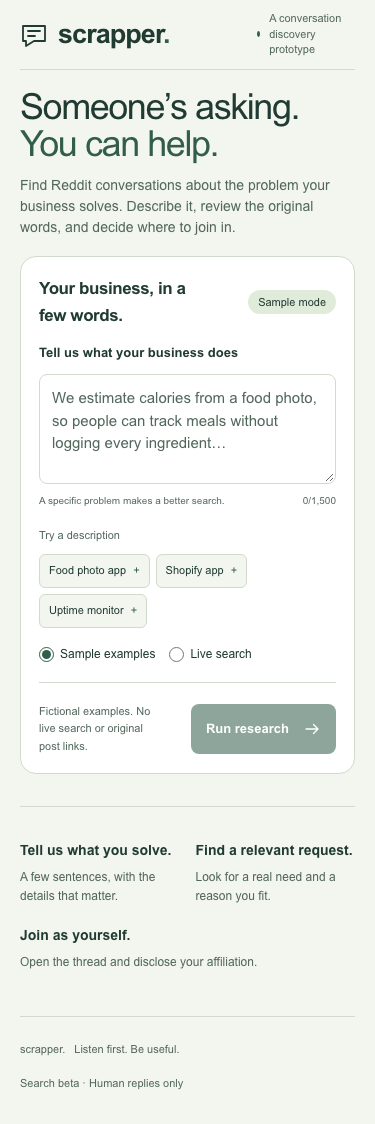
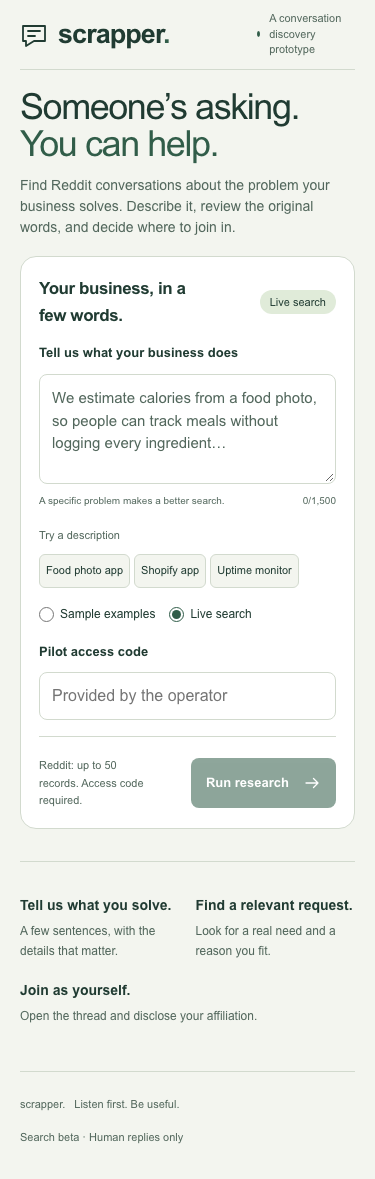
fix: accept ordinary problem discussions and default to live research

diff --git a/lib/discovery.ts b/lib/discovery.ts
@@ -103,10 +103,10 @@ export function interpret(description: string): Business {
           },
           {
             phrase:
-              '("tracking meals" OR "food logging") AND (difficult OR struggling OR recommend OR app)',
+              '(calorie OR calories OR food OR meals) AND (tracking OR logging OR counting) AND (hard OR difficult OR struggling OR tedious OR "how do" OR "how can")',
             signal: "problem",
             rationale:
-              "Meal-tracking problems and app discussions; complaints are not buying certainty.",
+              "Informal tracking questions and friction; no app request or buying language is required.",
           },
         ]
       : [
@@ -313,7 +313,7 @@ export function normalize(
   return output;
 }
 const request =
-  /\b(?:is there|are there|anyone (?:know|recommend|using)|can (?:anyone|someone)|looking for|recommend(?:ation|ations)?|suggest(?:ion|ions)?|alternative(?:s)?|need (?:an?|some|help)|how (?:do|can) I|what (?:app|tool)|wish there|tired of|takes too long|struggling with|hard to|difficult to|trouble (?:with|tracking)|hate (?:tracking|logging)|forget to (?:log|track))\b/i;
+  /\b(?:is there|are there|anyone (?:know|recommend|using)|can (?:anyone|someone)|looking for|recommend(?:ation|ations)?|suggest(?:ion|ions)?|alternative(?:s)?|need (?:an?|some|help)|how (?:do|can|should) (?:i|you(?: guys)?|we|people)|what (?:app|tool)|wish there|tired of|takes too long|struggling with|hard to|difficult to|trouble (?:with|tracking)|hate (?:tracking|logging)|forget to (?:log|track))\b/i;
 export function rank(
   items: SourceItem[],
   business: Business,
@@ -332,10 +332,29 @@ export function rank(
         content,
       ) &&
       /\b(?:photo|picture|pics|meal|food|ate|eating)\b/i.test(content);
+    const trackingProblem =
+      /\b(?:struggling|hard|difficult|trouble|hate|tired|too long|forget)\b[^.!?]{0,80}\b(?:track\w*|log\w*|count\w*|estimat\w*)\b/i.test(
+        content,
+      ) ||
+      /\b(?:track\w*|log\w*|count\w*)\b[^.!?]{0,80}\b(?:hard|difficult|struggling|too long|tedious|exhausting)\b/i.test(
+        content,
+      );
+    const trackingQuestion =
+      /\bhow (?:do|can|should) (?:i|you(?: guys)?|we|people)\b[^.!?]{0,100}\b(?:track\w*|log\w*|count\w*|estimat\w*)\b/i.test(
+        content,
+      );
     const evidence =
       content
         .split(/(?<=[.!?])\s+/)
-        .find((sentence) => request.test(sentence)) ||
+        .find(
+          (sentence) =>
+            request.test(sentence) ||
+            (trackingProblem &&
+              /\b(?:track\w*|log\w*|count\w*|estimat\w*)\b/i.test(sentence) &&
+              /hard|difficult|struggling|too long|tedious|exhausting/i.test(
+                sentence,
+              )),
+        ) ||
       (photoEstimationProblem
         ? (item.title || item.text).slice(0, 700)
         : undefined);
@@ -374,13 +393,6 @@ export function rank(
       /\balternatives?\b[^.!?]{0,50}\b(?:calorie (?:tracking|counting)|food (?:tracking|logging|journaling)|meal tracking)\b/i.test(
         content,
       );
-    const trackingProblem =
-      /\b(?:struggling|hard|difficult|trouble|hate|tired|too long|forget)\b[^.!?]{0,80}\b(?:track\w*|log\w*|count\w*|estimat\w*)\b/i.test(
-        content,
-      ) ||
-      /\b(?:track\w*|log\w*|count\w*)\b[^.!?]{0,80}\b(?:hard|difficult|struggling|too long|tedious|exhausting)\b/i.test(
-        content,
-      );
     const coachingRequest =
       /\b(?:looking for|recommend\w*|need)\b[^.!?]{0,80}\b(?:nutrition coach|personal trainer|dietitian)\b/i.test(
         content,
@@ -392,7 +404,8 @@ export function rank(
           (photoEstimationProblem ||
             toolRequest ||
             categoryAlternative ||
-            trackingProblem)
+            trackingProblem ||
+            trackingQuestion)
         : business.category === "Shopify & email marketing"
           ? /\bshopify\b/i.test(content) &&
             /\b(?:discount|codes?|email|cart)\b/i.test(content)
@@ -439,10 +452,11 @@ export function rank(
     results.push({
       ...item,
       evidence: evidence.trim().slice(0, 700),
-      reason: `This discussion mentions ${[...terms, ...features].slice(0, 3).join(", ")}—details that overlap with your description. ${item.synthetic ? "This fictional request illustrates the matching rule." : "Review the original context to confirm the fit."}`,
+      reason: `This discussion mentions ${[...terms, ...features].slice(0, 3).join(", ")}—details that overlap with your description. ${/calorie/i.test(business.summary) && /estimat/i.test(business.summary) && business.featureTerms.includes("photo") ? "Your stated photo-based calorie estimation could help with food estimation or logging. " : ""}${item.synthetic ? "This fictional request illustrates the matching rule." : "Review the original context to confirm the fit."}`,
       need:
-        photoEstimationProblem &&
-        !/\b(?:app|tool|software|tracker)\b/i.test(content)
+        (photoEstimationProblem || trackingProblem || trackingQuestion) &&
+        !toolRequest &&
+        !categoryAlternative
           ? "Problem context"
           : /alternative|instead of|switch from|moving on from/i.test(content)
             ? "Alternative request"

diff --git a/tests/browser/flows.spec.ts b/tests/browser/flows.spec.ts
@@ -17,6 +17,7 @@ test("sample input → progress → results, save, feedback, persistence and sou
   const errors: string[] = [];
   page.on("pageerror", (error) => errors.push(error.message));
   await page.goto("/");
+  await page.getByLabel("Sample examples", { exact: true }).check();
   await page.getByRole("button", { name: "Food photo app" }).click();
   await expect(
     page.getByRole("button", { name: "Run research" }),
@@ -74,6 +75,7 @@ test("empty fixtures and disabled live configuration remain truthful", async ({
   page,
 }) => {
   await page.goto("/");
+  await page.getByLabel("Sample examples", { exact: true }).check();
   await page
     .getByLabel("Tell us what your business does")
     .fill(
@@ -110,6 +112,7 @@ test("mobile keyboard flow and reduced motion have no horizontal overflow", asyn
   await expect(
     page.getByLabel("Tell us what your business does"),
   ).toBeFocused();
+  await page.getByLabel("Sample examples", { exact: true }).check();
   await page.getByRole("button", { name: "Uptime monitor" }).click();
   await page.getByRole("button", { name: "Run research" }).click();
   await expect(

diff --git a/tests/qualification.test.ts b/tests/qualification.test.ts
@@ -111,6 +111,19 @@ test("general diet distress and coaching requests do not become software matches
     "Problem context",
   );
 });
+test("ordinary tracking questions and informal friction qualify without app or buying language", () => {
+  for (const text of [
+    "How do you guys track your calories? This is very hard.",
+    "How can I log my meals without spending ages on it?",
+    "Tracking calories is so tedious. I struggle to keep it up.",
+  ]) {
+    const match = rank([post(text)], business)[0];
+    assert.ok(match, text);
+    assert.equal(match.need, "Problem context", text);
+    assert.ok(match.text.includes(match.evidence), text);
+    assert.match(match.reason, /Your stated photo-based calorie estimation/);
+  }
+});
 test("query plans pair category phrases with separate signals, preserve rationale and invent no competitor", () => {
   assert.equal(business.queryPlans!.length, 3);
   assert.ok(business.queries[0].includes('"calorie tracking"'));

diff --git a/app/page.tsx b/app/page.tsx
@@ -206,7 +206,7 @@ export default function Home() {
   const [description, setDescription] = useState("");
   const [accessCode, setAccessCode] = useState("");
   const progressSection = useRef<HTMLElement>(null);
-  const [mode, setMode] = useState<Mode>("sample");
+  const [mode, setMode] = useState<Mode>("live");
   const [scan, setScan] = useState<PublicScan | null>(null);
   const [error, setError] = useState("");
   const [starting, setStarting] = useState(false);

diff --git a/app/globals.css b/app/globals.css
@@ -1102,3 +1102,18 @@ footer {
 .locked-preview span:last-child {
   width: 55%;
 }
+
+@media (max-width: 400px) {
+  .examples > div {
+    gap: 4px;
+  }
+  .examples button {
+    padding-inline: 6px;
+  }
+}
+
+@media (max-width: 400px) {
+  .examples button span {
+    display: none;
+  }
+}

diff --git a/docs/validation.md b/docs/validation.md
@@ -67,7 +67,7 @@ The historical runs above tested the earlier pipeline. The final pipeline uses f
 
 A single optional Gemini call assesses up to five candidates using original context, exact quotation validation and accept/reject/uncertain decisions. Missing optional features are not a rejection; explicit incompatible constraints and promotions are. Sample mode makes no model calls. Failure preserves keyword matches with a disclosure. Original text/URLs/dates remain unchanged. Fit scores are not buyer probabilities. X has been removed from the public launch.
 
-36 offline tests pass, including unrelated-domain and explicit-constraint exclusions, category requests without every feature, separate problem/request labels, exact model evidence, failure fallback, once-only review persistence, ownership, idempotency, shared caps, and deferred X safeguards. Type checking, lint and production build pass. Final hosted proof and actual reported source charges are appended after verification.
+37 offline tests pass, including unrelated-domain and explicit-constraint exclusions, category requests without every feature, separate problem/request labels, exact model evidence, failure fallback, once-only review persistence, ownership, idempotency, shared caps, and deferred X safeguards. Type checking, lint and production build pass. Final hosted proof and actual reported source charges are appended after verification.
 
 ## Hosted useful-result verification, October 11, 2026
 
@@ -85,4 +85,12 @@ The actor encountered repeated Reddit HTTP 429 responses, succeeded in about 131
 
 The final preview returns up to three qualified results plus their actual total/hidden count. Additional titles, text, IDs and original links remain server-side. Decorative locked previews represent only actual additional matches; there is no checkout or unlock action. Pricing, subscriptions and entitlement access remain future work.
 
-The final precision pass was tested against the already-returned real dataset without another paid call. General diet distress, meal ideas and coaching requests no longer qualify as software needs; category replacement requests and direct food-photo estimation questions remain. Final offline suite: 36 passing tests.
+The final precision pass was tested against the already-returned real dataset without another paid call. General diet distress, meal ideas and coaching requests no longer qualify as software needs; category replacement requests and direct food-photo estimation questions remain. Final offline suite: 37 passing tests.
+
+## Final release checks
+
+A second hosted photo-calorie scan on the updated classification/preview build returned ten normalized real posts, retained **two**, and finished **partial** after source work hit its limits. Both were assessed by Gemini; their original source text, URLs and dates remained visible. One asks for a free calorie/nutrient/weight-logging app (October 8); price and manual-entry requirements are extra context, not capabilities promised by the photo example. The other is the September 26 photo-AI/app discussion already listed. No nonexistent third result or locked preview was shown. This check reported **$0.080**, so additional source verification cost **$0.160**, below the latest **$0.25** cap; total reported historical/release source charges are **$0.272**. No further paid validation is planned.
+
+The user's final clarification treats ordinary tracking questions and friction as opportunities even without an app recommendation request. “How do you guys track your calories? This is very hard” and “Tracking calories is so tedious” pass with original evidence and the **Problem context** label in the focused acceptance test. The problem query now includes this ordinary wording. This last recall change was checked offline, not with another paid provider/model call. Request language adds a label; it is not a universal acceptance requirement or a buyer-probability signal.
+
+The release has **37 passing offline tests**, **six passing hosted browser checks**, strict type checking, lint and production build, plus earlier Neon persistence/concurrency validation. The final review found no material UI issues. The different-business uptime examples and recorded unrelated source dataset remain offline/negative checks; focused live uptime coverage has not been demonstrated. Useful live proof is the calorie/photo/food-journaling niche.

diff --git a/README.md b/README.md
@@ -32,9 +32,9 @@ The actor requests at most 50 items, with a 180-second timeout and an explicit c
 
 Three explicitly authorized Reddit source attempts reported **$0.092 total charges**. The first timed out with one community record; a five-item attempt was rejected without charge. The corrected ten-item attempt succeeded, returning **seven real posts with text, original URLs and publication dates**, all normalized correctly. None qualified for the uptime-monitor business: the returned posts used “monitor” in unrelated contexts, so that historical query did not prove useful search precision. The separate model generation passed with **132 tokens**; estimated paid-tier cost was $0.0001188, not an observed billing charge. See [validation evidence](docs/validation.md). Sample cards are unmistakably fictional and have no invented original links or publication dates.
 
-**Useful hosted proof:** submitting the photo-calorie app through the production form retrieved ten real Reddit posts and retained three relevant conversations, whose original pages and source text were manually checked. They include an app request, a photo-estimation problem, and an older simpler-journaling replacement request. Dates/ages are explicit; none is claimed as a ready-to-buy customer. This run cost $0.08, taking historical source charges to $0.192 before final verification. [Evidence and original links](docs/validation.md).
+**Useful hosted proof:** submitting the photo-calorie app through the production form retrieved ten real Reddit posts and retained three relevant conversations, whose original pages and source text were manually checked. They include an app request, a photo-estimation problem, and an older simpler-journaling replacement request. Dates/ages are explicit; none is claimed as a ready-to-buy customer. The first run cost $0.08. A second bounded hosted check retained two actual matches from ten returned posts and honestly showed partial source completion; it also cost $0.08. Total reported historical and release source charges are $0.272. [Evidence and original links](docs/validation.md).
 
-The first three matches are visible. If more actual matches exist, the API returns their real count and an informational locked preview; hidden titles/text/links stay on the server. There is no checkout, subscription, trial or working unlock action. Future paid access is documented rather than simulated.
+Live research is the default; an operator pilot code is required to protect source credit. The separate sample mode is explicitly fictional. The first three matches are visible. If more actual matches exist, the API returns their real count and an informational locked preview; hidden titles/text/links stay on the server. There is no checkout, subscription, trial or working unlock action. Future paid access is documented rather than simulated.
 
 X is deferred from the public launch and rejected by the public scan-creation API. Its connector and historical tests remain in the repository. Its earlier free-demo check returned ten real posts, zero qualified matches, and cost $0.020; useful X discovery was not proven. Historical Reddit/X source charges before final hosted verification total $0.112. See [historical X validation](docs/x-validation.md).
 
